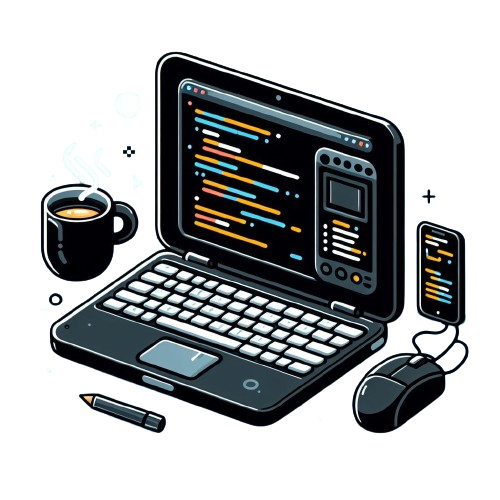
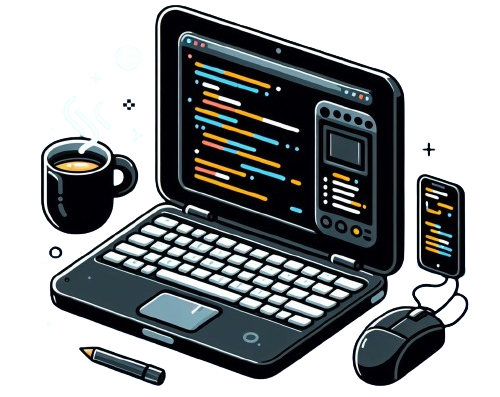
refactor: Foi feito um corde nas bordas top e button da imagem.

diff --git a/README.md b/README.md
@@ -2,8 +2,6 @@
 
 <img src="./componentes/notebookcafe.png" alt="ilustração de um computador" min-width="400px" max-width="400px" width="400px" align="right" top="0">
 
-
-
 <p  align="left">
 Programador Front-End apaixonado por tecnologia, possuo habilidades em React, JavaScript, TypeScript, Node.js, Styled-components, Material UI, HTML e CSS. Tenho experiência em projetos de desenvolvimento web, oferecendo soluções personalizadas e criativas. Especializado em criar interfaces de usuário interativas e responsivas. Habilidades sólidas em bibliotecas e frameworks populares, como React, para construir aplicações web modernas e escaláveis. Focado na qualidade do código e atenção aos detalhes. Pronto para enfrentar desafios técnicos complexos de forma independente. Aberto a novas oportunidades para criar experiências digitais de alto nível. 
 </p>
@@ -11,7 +9,8 @@ Programador Front-End apaixonado por tecnologia, possuo habilidades em React, Ja
 
 ### 📃 Currículo:
 <a href="https://cmsportfolioprofissional.netlify.app/assets/cv-fe20d0b7.pdf"> <button>Baixar currículo </button> </a>
- 
+
+--- 
 ### ⚙ GitHub Analytics
 
 <table>
@@ -72,13 +71,15 @@ Programador Front-End apaixonado por tecnologia, possuo habilidades em React, Ja
 ![React.js](https://img.shields.io/badge/React-20232A?style=for-the-badge&logo=react&logoColor=61DAFB)&nbsp;
 ![Node.JS](https://img.shields.io/badge/Node.js-43853D?style=for-the-badge&logo=node.js&logoColor=white)&nbsp;
 
+--- 
 ### Tools:
 
 ![Visual Studio Code](https://img.shields.io/badge/Visual_Studio_Code-0078D4?style=for-the-badge&logo=visual%20studio%20code&logoColor=white)&nbsp;
 ![Figma](https://img.shields.io/badge/Figma-F24E1E?style=for-the-badge&logo=figma&logoColor=white)&nbsp;
 ![microsoft-office](https://img.shields.io/badge/Microsoft_Office-D83B01?style=for-the-badge&logo=microsoft-office&logoColor=white)&nbsp;
 
- ### 📲 Contatos:
+--- 
+### 📲 Contatos:
 
 <p align="left">
   <a href="mailto:chrystopher312@gmail.com" title="Gmail">
@@ -89,10 +90,14 @@ Programador Front-End apaixonado por tecnologia, possuo habilidades em React, Ja
   <img src="https://img.shields.io/badge/-WhatsApp-25d366?style=flat-square&labelColor=25d366&logo=whatsapp&logoColor=white&link=API-DO-SEU-WHATSAPP" alt="WhatsApp"/></a>
 </p>
 
+--- 
+
 ### Visitors Count
 
 <div align="left">
 <p align="left"><img align="center" src="https://profile-counter.glitch.me/{chrystophermedeiros}/count.svg" /></p> 
 <br></div>
+
+--- 
 
 
